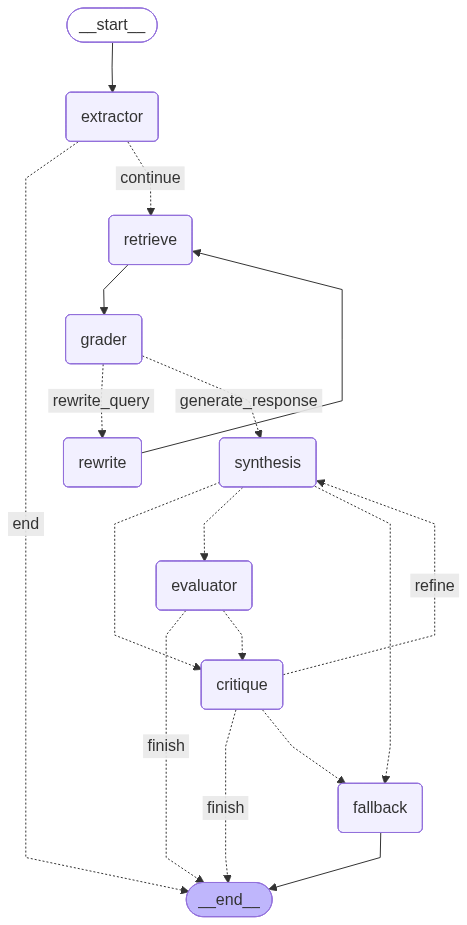
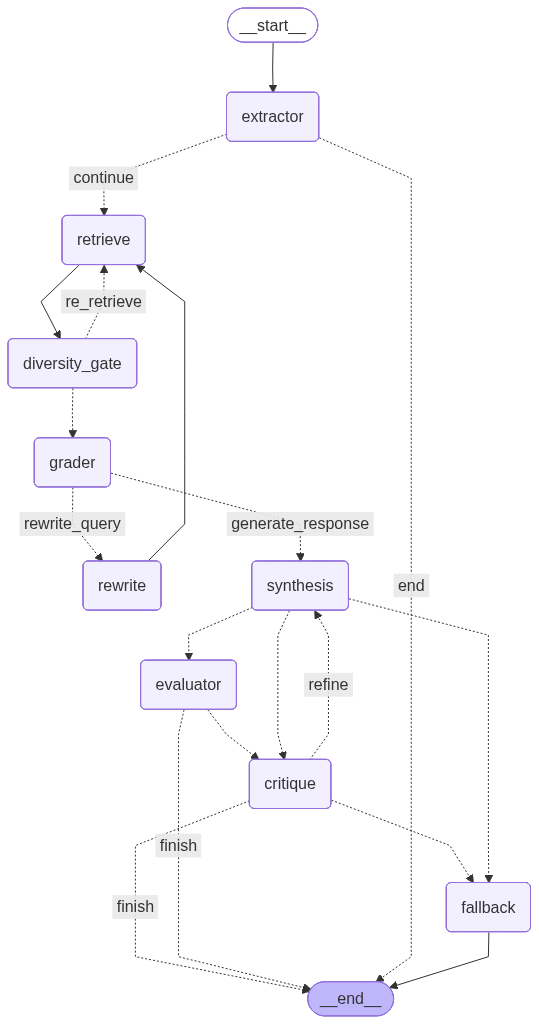
add new graph with HITL

diff --git a/README.md b/README.md
@@ -2,6 +2,8 @@
 
 Stateful multi-agent system for financial news analysis using LangGraph, GraphRAG, and LLM evaluation. A live portfolio project by [Shri Kallol](https://www.linkedin.com/in/shrinivas-kallol/) demonstrating the transition from "Retrieval" to "Reasoning" in the 2026 AI Agent landscape.
 
+**Contents:** [Problem](#the-problem) · [Solution](#the-solution-agentic-design-patterns) · [Architecture](#system-architecture) · [RAGAS](#reliability-scorecard-ragas) · [Stack](#tech-stack) · [Getting started](#getting-started) · [MCP & HITL](#mcp-and-hitl) · [Layout](#project-structure) · [Ports](#services-after-docker-compose-up--d)
+
 ---
 
 ## The Problem
@@ -31,13 +33,24 @@ AMI is a Corrective RAG (CRAG) system built on a cyclic state machine. It does n
 - **Pattern:** Self-Reflection
 - **Function:** The Evaluator (using RAGAS metrics) acts as a unit test. If the synthesis is not fully grounded in the facts, the Critique node identifies the hallucination and forces a regeneration.
 
+**Retrieval diversity (optional HITL)** (retrieve → diversity_gate → [human λ] → retrieve → grader)
+
+- **Pattern:** Human-in-the-loop checkpoint + **Maximal Marginal Relevance (MMR)** on pgvector results
+- **Function:** Vector retrieval can be re-ranked for diversity using λ ∈ [0.0, 1.0] (1.0 ≈ relevance-only; lower λ favors dissimilar chunks). When enabled via environment variables, the graph may **interrupt** after retrieval so an operator can submit λ; the workflow then **re-runs retrieval** with that λ before the Grader. Requires a LangGraph **checkpointer** (in-memory for the MCP server when HITL is on).
+
 ---
 
 ## System Architecture
 
 ![System Architecture](docs/architecture_graph.png)
 
-*Figure 1: The Agentic Workflow — closed-loop evaluation and critique cycle.*
+*Figure 1: The Agentic Workflow — closed-loop evaluation and critique cycle (includes optional diversity gate / MMR re-fetch when HITL is enabled).*
+
+**Updating this figure:** The README always points at `docs/architecture_graph.png`. Running the exporter **overwrites that file**; you do **not** need to edit the README image path.
+
+```bash
+uv run python scripts/export_graph.py   # writes docs/architecture_graph.png (requires Graphviz for PNG)
+```
 
 ### Trace Example: The Multi-Hop Challenge
 
@@ -63,6 +76,7 @@ AMI is a Corrective RAG (CRAG) system built on a cyclic state machine. It does n
 | **Why GraphRAG (Neo4j)?** | Vector search excels at nuance but fails at relationship traversal. To answer "Who is the optics provider for Apple's 3nm manufacturer?", the system must perform a 3-hop traversal. Neo4j provides the structural truth that vector DBs lack. |
 | **Why Stateful LangGraph?** | A stateful managed graph maintains a Revision Count and Search History. This prevents infinite loops and allows the system to remember what it already tried during the rewrite phase. |
 | **Why Hybrid Retrieval?** | Neo4j (structural) + PGVector (semantic) capture both hard links between companies and soft sentiment in news text. |
+| **Why MMR / optional HITL?** | Top-k similarity can return redundant passages. MMR trades off query relevance vs. diversity among selected chunks; optional interrupts let an operator set λ when redundancy risk is high (e.g. investigative review). |
 
 ---
 
@@ -151,14 +165,18 @@ pre-commit install   # optional: run hooks on git commit
 
 ### 7. MCP server (development)
 
-Run the MCP server with **SSE** on port 8000 (reachable on your LAN/Docker via `0.0.0.0`):
+<a id="mcp-and-hitl"></a>
+
+Run the MCP server with **SSE** on port 8000 (reachable on your LAN via `0.0.0.0`):
 
 ```bash
 uv run python src/mcp_server.py
 ```
 
+On startup, stderr prints `[MCP config] …` so you can confirm whether **HITL** is enabled (reads `.env`; see below).
+
 - **Stdio** (Cursor “command” style): `uv run python src/mcp_server.py --stdio`
-- **Port**: override with `MCP_PORT=9000` (default `8000`)
+- **Port**: `MCP_PORT=9000` (default `8000`)
 
 **MCP Inspector** (browser UI to list tools and call them):
 
@@ -166,15 +184,44 @@ uv run python src/mcp_server.py
 npx @modelcontextprotocol/inspector http://localhost:8000/sse
 ```
 
-Opens a UI (often at http://localhost:6274). In the transport dropdown choose **SSE**, then **Connect**. You should see tools such as `research_company`.
+Opens a UI (often at http://localhost:6274). Choose **SSE**, then **Connect**. Tools include **`research_company`** (query + `thread_id`) and **`resume_research`** (`thread_id` + `lambda_value`).
 
-**Cursor**: Settings → Features → MCP → Add server → type **SSE** → URL `http://localhost:8000/sse`.
+**Cursor:** Settings → Features → MCP → Add server → **SSE** → `http://localhost:8000/sse`.
 
-While a tool runs, **LangGraph progress** (node starts, tool starts) is printed to the **server terminal** (stderr), so you can watch the workflow from the process that started `mcp_server.py`.
+**Observability**
 
-**HITL / MMR λ (optional):** Set `AMI_HITL_DIVERSITY=1` in `.env`. After retrieval, if there are at least `AMI_HITL_MIN_CONTEXT` context chunks (default `6`), the graph **interrupts** so you can choose diversity. Use the same `thread_id` on `research_company`, then call MCP tool **`resume_research`** with `lambda_value` between `0.0` and `1.0`. If HITL is off, `research_company` streams node events as before.
+| Mode | `research_company` | `resume_research` |
+|------|---------------------|-------------------|
+| HITL **off** | Streams node/tool events to the server terminal (`astream_events`) | N/A |
+| HITL **on** | Runs until interrupt or completion (`ainvoke`); returns **JSON** with `"status": "interrupted"` when paused | Streams node/tool events to the server terminal (`astream_events`) |
 
-Dependencies: `fastmcp` and `uvicorn` (HTTP/SSE transport) are listed in `pyproject.toml`.
+**Human-in-the-loop (HITL) and MMR λ**
+
+1. Copy **`.env.example` → `.env`** and set API keys. Never commit `.env`.
+2. Enable diversity gate + interrupt path:
+
+   | Variable | Purpose |
+   |----------|---------|
+   | `AMI_HITL_DIVERSITY` | `1`, `true`, or `yes` to enable; anything else disables HITL |
+   | `AMI_HITL_MIN_CONTEXT` | Interrupt when `len(state.context) >=` this value (integer ≥ 1) |
+
+3. **Restart** `mcp_server.py` after changing `.env`. The server loads `.env` with override so these values take effect.
+
+**Threshold note:** After `retrieve`, `context` is typically **two** list items (graph block + vector block). The default **`AMI_HITL_MIN_CONTEXT=6`** therefore **never** fires. For local testing, use `AMI_HITL_MIN_CONTEXT=1` or `2`; raise it in production when you want interrupts only for “heavy” context.
+
+**Tool flow**
+
+1. Call **`research_company`** with your **query** and a stable **`thread_id`** per conversation.
+2. If the response is interrupt JSON → call **`resume_research`** with the **same `thread_id`** and **`lambda_value`** in **[0.0, 1.0]**.
+3. `resume_research` completes the run and prints intermediate **node start** lines on the MCP process stderr.
+
+**CLI smoke test (HITL + resume without Inspector):**
+
+```bash
+AMI_HITL_DIVERSITY=1 AMI_HITL_MIN_CONTEXT=2 uv run python scripts/test_hitl_mmr.py
+```
+
+Dependencies: `fastmcp`, `uvicorn` (see `pyproject.toml`).
 
 ---
 
@@ -184,13 +231,15 @@ Dependencies: `fastmcp` and `uvicorn` (HTTP/SSE transport) are listed in `pyproj
 ├── alembic/              # Postgres migrations (news_articles, article_chunks)
 ├── compose.yaml          # Neo4j, Postgres, Redis
 ├── pyproject.toml        # Dependencies (uv)
+├── docs/
+│   └── architecture_graph.png  # Generated; see scripts/export_graph.py
 ├── src/
 │   └── mcp_server.py     # MCP server (SSE on :8000 by default; --stdio for Cursor command)
 ├── app/
-│   ├── state/            # GraphState schema
+│   ├── state/            # GraphState schema (incl. mmr_lambda, HITL flags)
 │   ├── graph/            # LangGraph workflow definition
-│   ├── nodes/            # Extractor, Retriever, Grader, Synthesis, Evaluator, Critique
-│   └── tools/            # Vector + Graph retrieval
+│   ├── nodes/            # Extractor, Retriever, diversity_gate, Grader, Synthesis, …
+│   └── tools/            # Vector (MMR-capable) + Graph retrieval
 ├── tests/                # Pytest tests (unit + integration)
 │   ├── conftest.py       # Shared fixtures
 │   ├── test_*.py
@@ -200,17 +249,19 @@ Dependencies: `fastmcp` and `uvicorn` (HTTP/SSE transport) are listed in `pyproj
     ├── seed_synthetic_postgres.py
     ├── seed_synthetic_neo4j.py
     ├── run_workflow.py   # Run CRAG workflow demo
-    └── run_evaluation.py # Run golden-dataset evaluation
+    ├── run_evaluation.py # Run golden-dataset evaluation
+    ├── export_graph.py   # Regenerate docs/architecture_graph.png from LangGraph
+    └── test_hitl_mmr.py  # Optional local HITL + MMR smoke test
 ```
 
 ---
 
 ## Services (after `docker compose up -d`)
 
-| Service | Port |
-|---------|------|
+| Service | Port / URL |
+|---------|------------|
 | Neo4j Browser | http://localhost:7474 |
-| Postgres | localhost:5432 |
+| Postgres (host → container) | **localhost:5433** → 5432 |
 | Redis | localhost:6379 |
 
-Credentials are configured in `compose.yaml` and `.env`.
+Match `DATABASE_URL` / `POSTGRES_PORT` in `.env` to **5433** on the host unless you change `compose.yaml`. Credentials are set in `compose.yaml` and `.env`.
